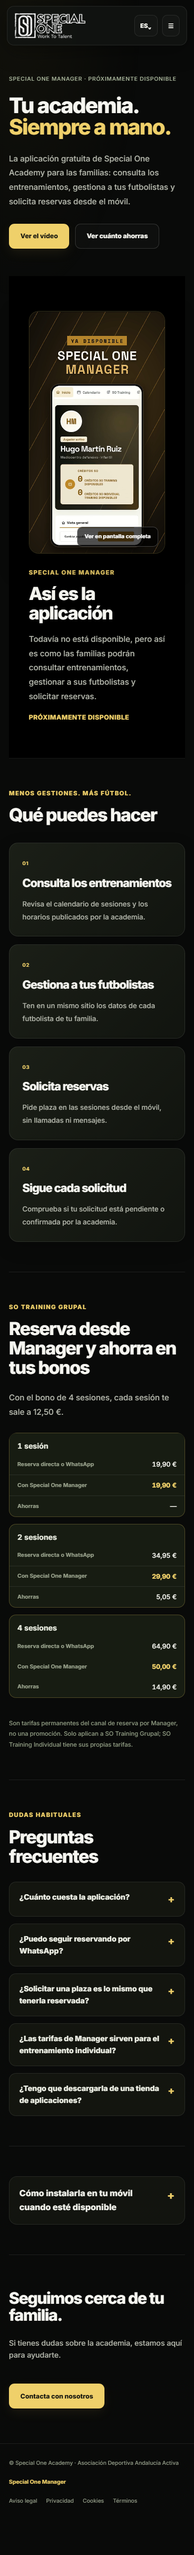
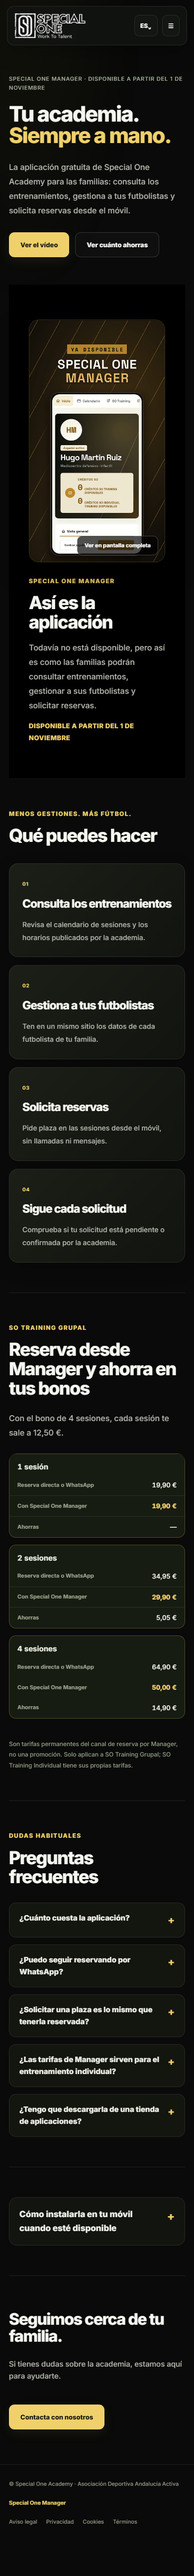
Update Manager availability messaging to launch date
Replace every "Próximamente disponible / Próximamente / NUEVO ·
PRÓXIMAMENTE" reference about Special One Manager with "DISPONIBLE A
PARTIR DEL 1 DE NOVIEMBRE" on the homepage Manager block and the
Manager page, including the caption shown directly under the video.
Poster image left untouched per request.

Changed region(s): [[0.0308, 0.0, 0.9231, 0.9674], [0.8615, 0.749, 0.8923, 0.8114], [0.4, 0.9362, 0.4615, 0.9674]]

diff --git a/specialone-vercel-clean/index.html b/specialone-vercel-clean/index.html
@@ -72,7 +72,7 @@ gtag("config", "G-HH45EVVGY7");
 </div>
 </header>
 <div id="season-floating-banner" role="region"><div class="season-bar"><button class="season-cta" data-en="Enrollment open in SO Training · Request a place →" data-es="Inscripciones abiertas en SO Training · Solicitar plaza →" onclick="openTally('NpMjqB')" type="button">Inscripciones abiertas en SO Training · Solicitar plaza →</button><button aria-label="Cerrar aviso" id="season-close" type="button">×</button></div></div>
-<section aria-labelledby="hero-title" class="hero"><div class="hero-stage container"><div class="hero-photo"><img alt="Jugador de Special One Academy durante un entrenamiento" fetchpriority="high" height="1440" src="assets/img/hero.jpg" width="1920"/></div><div class="hero-copy"><div class="hero-brandline" data-en="SPECIAL ONE ACADEMY · WORK TO TALENT" data-es="SPECIAL ONE ACADEMY · WORK TO TALENT">SPECIAL ONE ACADEMY · WORK TO TALENT</div><h1 data-en="Football training academy in Seville" data-es="Academia de tecnificación de fútbol en Sevilla" id="hero-title">Academia de tecnificación de fútbol en Sevilla</h1><p data-en="Specific training, close attention and qualified coaches to complement the work the player does at their club." data-es="Entrenamiento específico, atención cercana y entrenadores cualificados para complementar el trabajo que el futbolista hace en su club.">Entrenamiento específico, atención cercana y entrenadores cualificados para complementar el trabajo que el futbolista hace en su club.</p><div class="hero-actions"><a class="btn" data-en="See programs" data-es="Ver programas" href="#programas">Ver programas</a><a class="btn secondary" data-en="Talk on WhatsApp" data-es="Hablar por WhatsApp" href="https://wa.me/34614806029" rel="noopener" target="_blank">Hablar por WhatsApp</a></div><div class="hero-signature" data-en="Players and goalkeepers · Work To Talent" data-es="Jugadores, jugadoras y porteros · Work To Talent">Jugadores, jugadoras y porteros · Work To Talent</div></div><aside aria-labelledby="hero-manager-title" class="hero-manager"><div class="eyebrow" data-en="NEW · COMING SOON" data-es="NUEVO · PRÓXIMAMENTE">NUEVO · PRÓXIMAMENTE</div><h2 data-en="Special One Manager, the academy's app for families" data-es="Special One Manager, la app de la academia para las familias" id="hero-manager-title">Special One Manager, la app de la academia para las familias</h2><div class="video-shell"><video aria-label="Vídeo de presentación de Special One Manager" class="manager-film" controls="" playsinline="" poster="assets/manager-poster.jpg" preload="metadata"><source src="assets/special-one-manager.mp4" type="video/mp4"/></video><p class="video-launch-status" data-en="COMING SOON" data-es="PRÓXIMAMENTE DISPONIBLE">PRÓXIMAMENTE DISPONIBLE</p></div><p data-en="Check training sessions and request bookings from your phone. And if you book your SO Training Group bundles through the app, each session costs less." data-es="Consulta entrenamientos y solicita reservas desde el móvil. Y si reservas tus bonos de SO Training Grupal desde la app, cada sesión te sale más barata.">Consulta entrenamientos y solicita reservas desde el móvil. Y si reservas tus bonos de SO Training Grupal desde la app, cada sesión te sale más barata.</p><a class="btn hero-manager-cta" data-en="Discover Special One Manager →" data-es="Conocer Special One Manager →" href="/special-one-manager.html">Conocer Special One Manager →</a></aside></div></section>
+<section aria-labelledby="hero-title" class="hero"><div class="hero-stage container"><div class="hero-photo"><img alt="Jugador de Special One Academy durante un entrenamiento" fetchpriority="high" height="1440" src="assets/img/hero.jpg" width="1920"/></div><div class="hero-copy"><div class="hero-brandline" data-en="SPECIAL ONE ACADEMY · WORK TO TALENT" data-es="SPECIAL ONE ACADEMY · WORK TO TALENT">SPECIAL ONE ACADEMY · WORK TO TALENT</div><h1 data-en="Football training academy in Seville" data-es="Academia de tecnificación de fútbol en Sevilla" id="hero-title">Academia de tecnificación de fútbol en Sevilla</h1><p data-en="Specific training, close attention and qualified coaches to complement the work the player does at their club." data-es="Entrenamiento específico, atención cercana y entrenadores cualificados para complementar el trabajo que el futbolista hace en su club.">Entrenamiento específico, atención cercana y entrenadores cualificados para complementar el trabajo que el futbolista hace en su club.</p><div class="hero-actions"><a class="btn" data-en="See programs" data-es="Ver programas" href="#programas">Ver programas</a><a class="btn secondary" data-en="Talk on WhatsApp" data-es="Hablar por WhatsApp" href="https://wa.me/34614806029" rel="noopener" target="_blank">Hablar por WhatsApp</a></div><div class="hero-signature" data-en="Players and goalkeepers · Work To Talent" data-es="Jugadores, jugadoras y porteros · Work To Talent">Jugadores, jugadoras y porteros · Work To Talent</div></div><aside aria-labelledby="hero-manager-title" class="hero-manager"><div class="eyebrow" data-en="AVAILABLE FROM NOVEMBER 1" data-es="DISPONIBLE A PARTIR DEL 1 DE NOVIEMBRE">DISPONIBLE A PARTIR DEL 1 DE NOVIEMBRE</div><h2 data-en="Special One Manager, the academy's app for families" data-es="Special One Manager, la app de la academia para las familias" id="hero-manager-title">Special One Manager, la app de la academia para las familias</h2><div class="video-shell"><video aria-label="Vídeo de presentación de Special One Manager" class="manager-film" controls="" playsinline="" poster="assets/manager-poster.jpg" preload="metadata"><source src="assets/special-one-manager.mp4" type="video/mp4"/></video><p class="video-launch-status" data-en="AVAILABLE FROM NOVEMBER 1" data-es="DISPONIBLE A PARTIR DEL 1 DE NOVIEMBRE">DISPONIBLE A PARTIR DEL 1 DE NOVIEMBRE</p></div><p data-en="Check training sessions and request bookings from your phone. And if you book your SO Training Group bundles through the app, each session costs less." data-es="Consulta entrenamientos y solicita reservas desde el móvil. Y si reservas tus bonos de SO Training Grupal desde la app, cada sesión te sale más barata.">Consulta entrenamientos y solicita reservas desde el móvil. Y si reservas tus bonos de SO Training Grupal desde la app, cada sesión te sale más barata.</p><a class="btn hero-manager-cta" data-en="Discover Special One Manager →" data-es="Conocer Special One Manager →" href="/special-one-manager.html">Conocer Special One Manager →</a></aside></div></section>
 <div class="launch-trust container"> <div class="hero-feature">
 <div class="icon-box">
 <svg fill="none" stroke="currentColor" viewbox="0 0 24 24"><path d="M16 21v-2a4 4 0 0 0-8 0v2"></path><circle cx="12" cy="7" r="4"></circle><path d="M22 21v-2a4 4 0 0 0-3-3.87"></path><path d="M2 21v-2a4 4 0 0 1 3-3.87"></path></svg>

diff --git a/specialone-vercel-clean/special-one-manager.html b/specialone-vercel-clean/special-one-manager.html
@@ -30,7 +30,7 @@
 </header>
 <main>
 <section aria-labelledby="manager-title" class="manager-intro">
-<div class="manager-label" data-en="SPECIAL ONE MANAGER · COMING SOON" data-es="SPECIAL ONE MANAGER · PRÓXIMAMENTE DISPONIBLE">SPECIAL ONE MANAGER · PRÓXIMAMENTE DISPONIBLE</div>
+<div class="manager-label" data-en="SPECIAL ONE MANAGER · AVAILABLE FROM NOVEMBER 1" data-es="SPECIAL ONE MANAGER · DISPONIBLE A PARTIR DEL 1 DE NOVIEMBRE">SPECIAL ONE MANAGER · DISPONIBLE A PARTIR DEL 1 DE NOVIEMBRE</div>
 <h1 data-en="Your academy.&lt;br&gt;&lt;span&gt;Always at hand.&lt;/span&gt;" data-es="Tu academia.&lt;br&gt;&lt;span&gt;Siempre a mano.&lt;/span&gt;" data-rich="" id="manager-title">Tu academia.<br/><span>Siempre a mano.</span></h1>
 <p class="manager-lead" data-en="Special One Academy's free app for families: check training sessions, manage your players and request bookings from your phone." data-es="La aplicación gratuita de Special One Academy para las familias: consulta los entrenamientos, gestiona a tus futbolistas y solicita reservas desde el móvil.">La aplicación gratuita de Special One Academy para las familias: consulta los entrenamientos, gestiona a tus futbolistas y solicita reservas desde el móvil.</p>
 <div class="manager-hero-actions">
@@ -48,7 +48,7 @@
 <div class="manager-kicker" data-en="Special One Manager" data-es="Special One Manager">Special One Manager</div>
 <h2 data-en="This is the app" data-es="Así es la aplicación">Así es la aplicación</h2>
 <p data-en="Still not available, but this is how families will check training sessions, manage players and request bookings." data-es="Todavía no está disponible, pero así es como las familias podrán consultar entrenamientos, gestionar a sus futbolistas y solicitar reservas.">Todavía no está disponible, pero así es como las familias podrán consultar entrenamientos, gestionar a sus futbolistas y solicitar reservas.</p>
-<p class="manager-video-caption video-launch-status" data-en="COMING SOON" data-es="PRÓXIMAMENTE DISPONIBLE">PRÓXIMAMENTE DISPONIBLE</p>
+<p class="manager-video-caption video-launch-status" data-en="AVAILABLE FROM NOVEMBER 1" data-es="DISPONIBLE A PARTIR DEL 1 DE NOVIEMBRE">DISPONIBLE A PARTIR DEL 1 DE NOVIEMBRE</p>
 </div>
 </div>
 </section>
